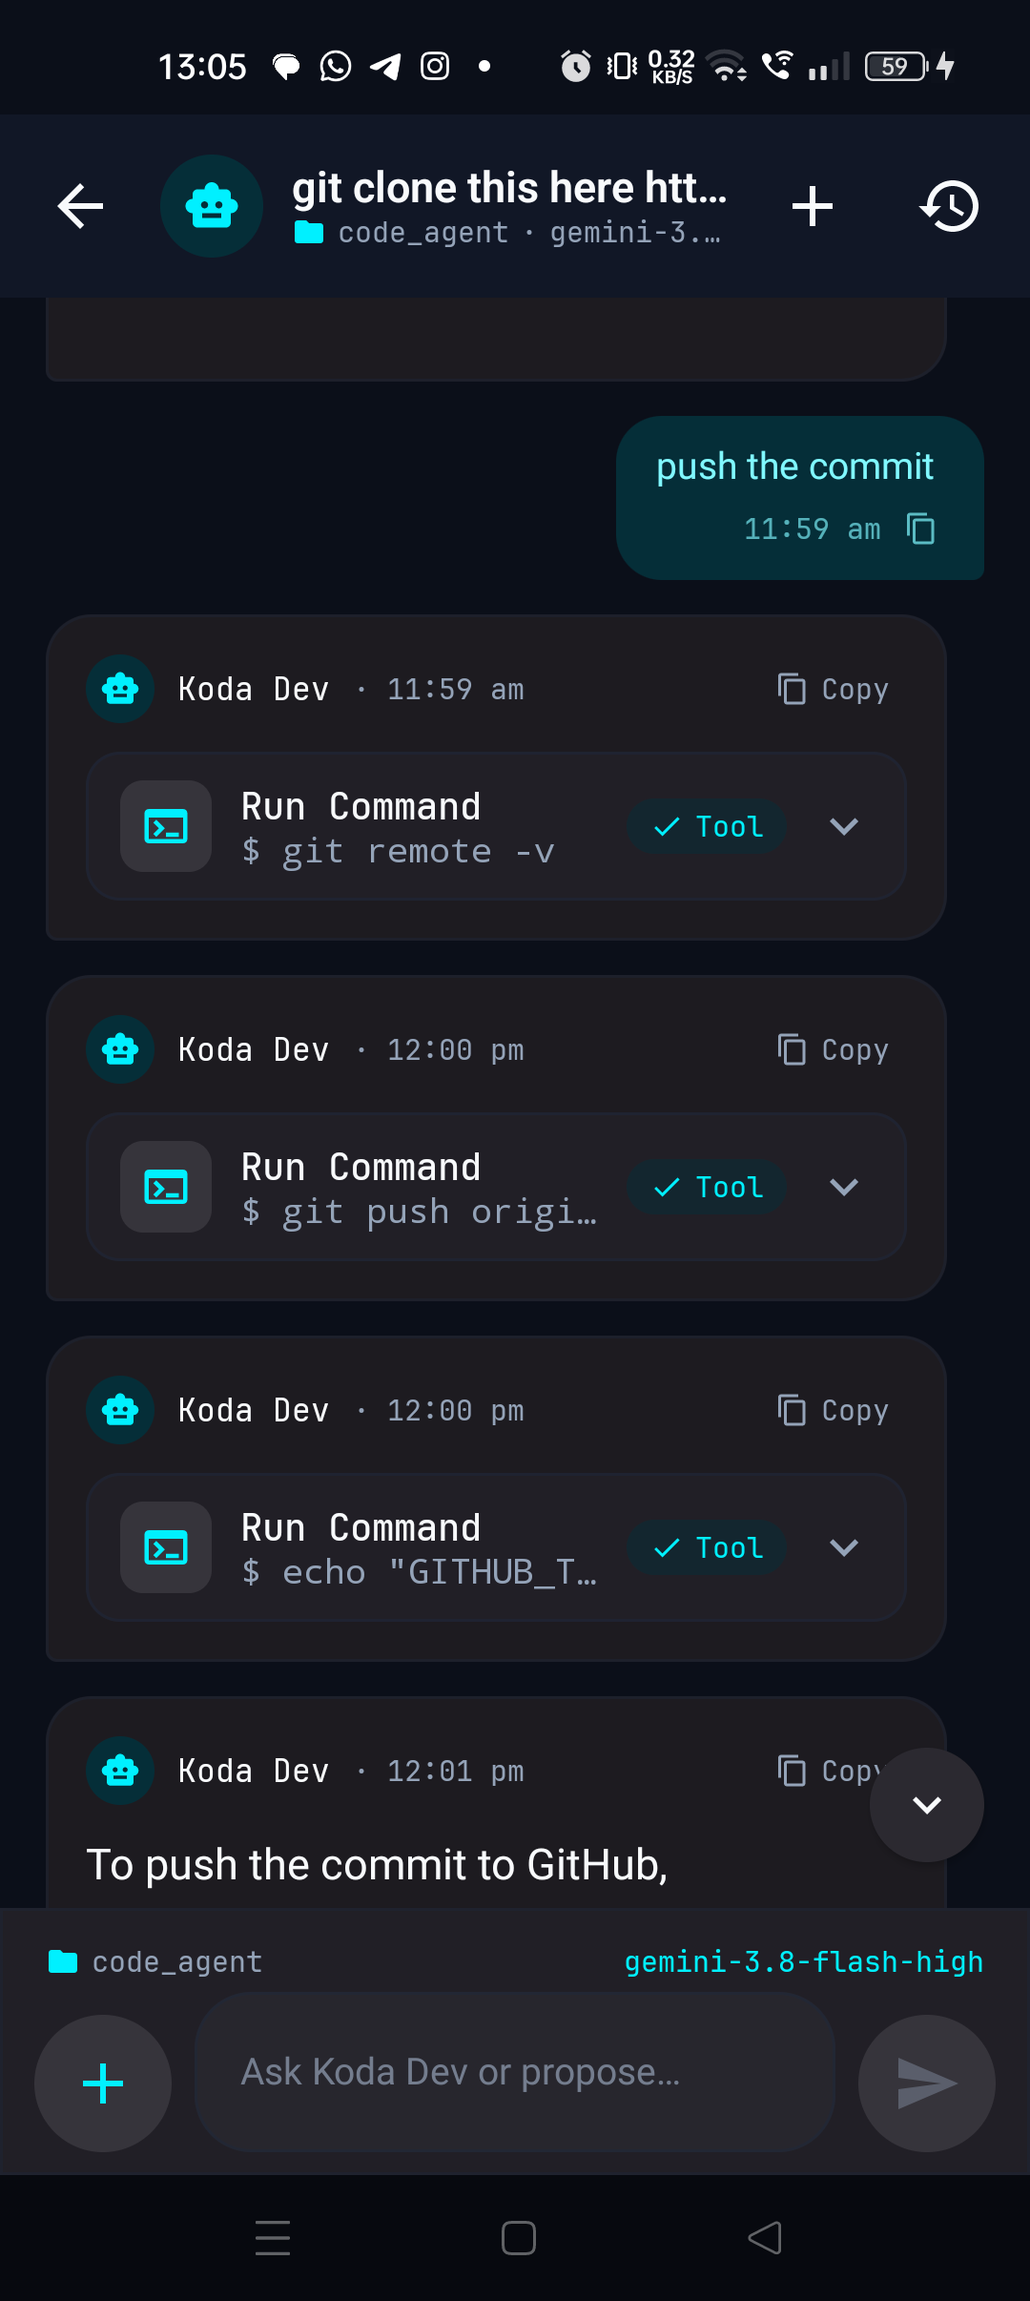
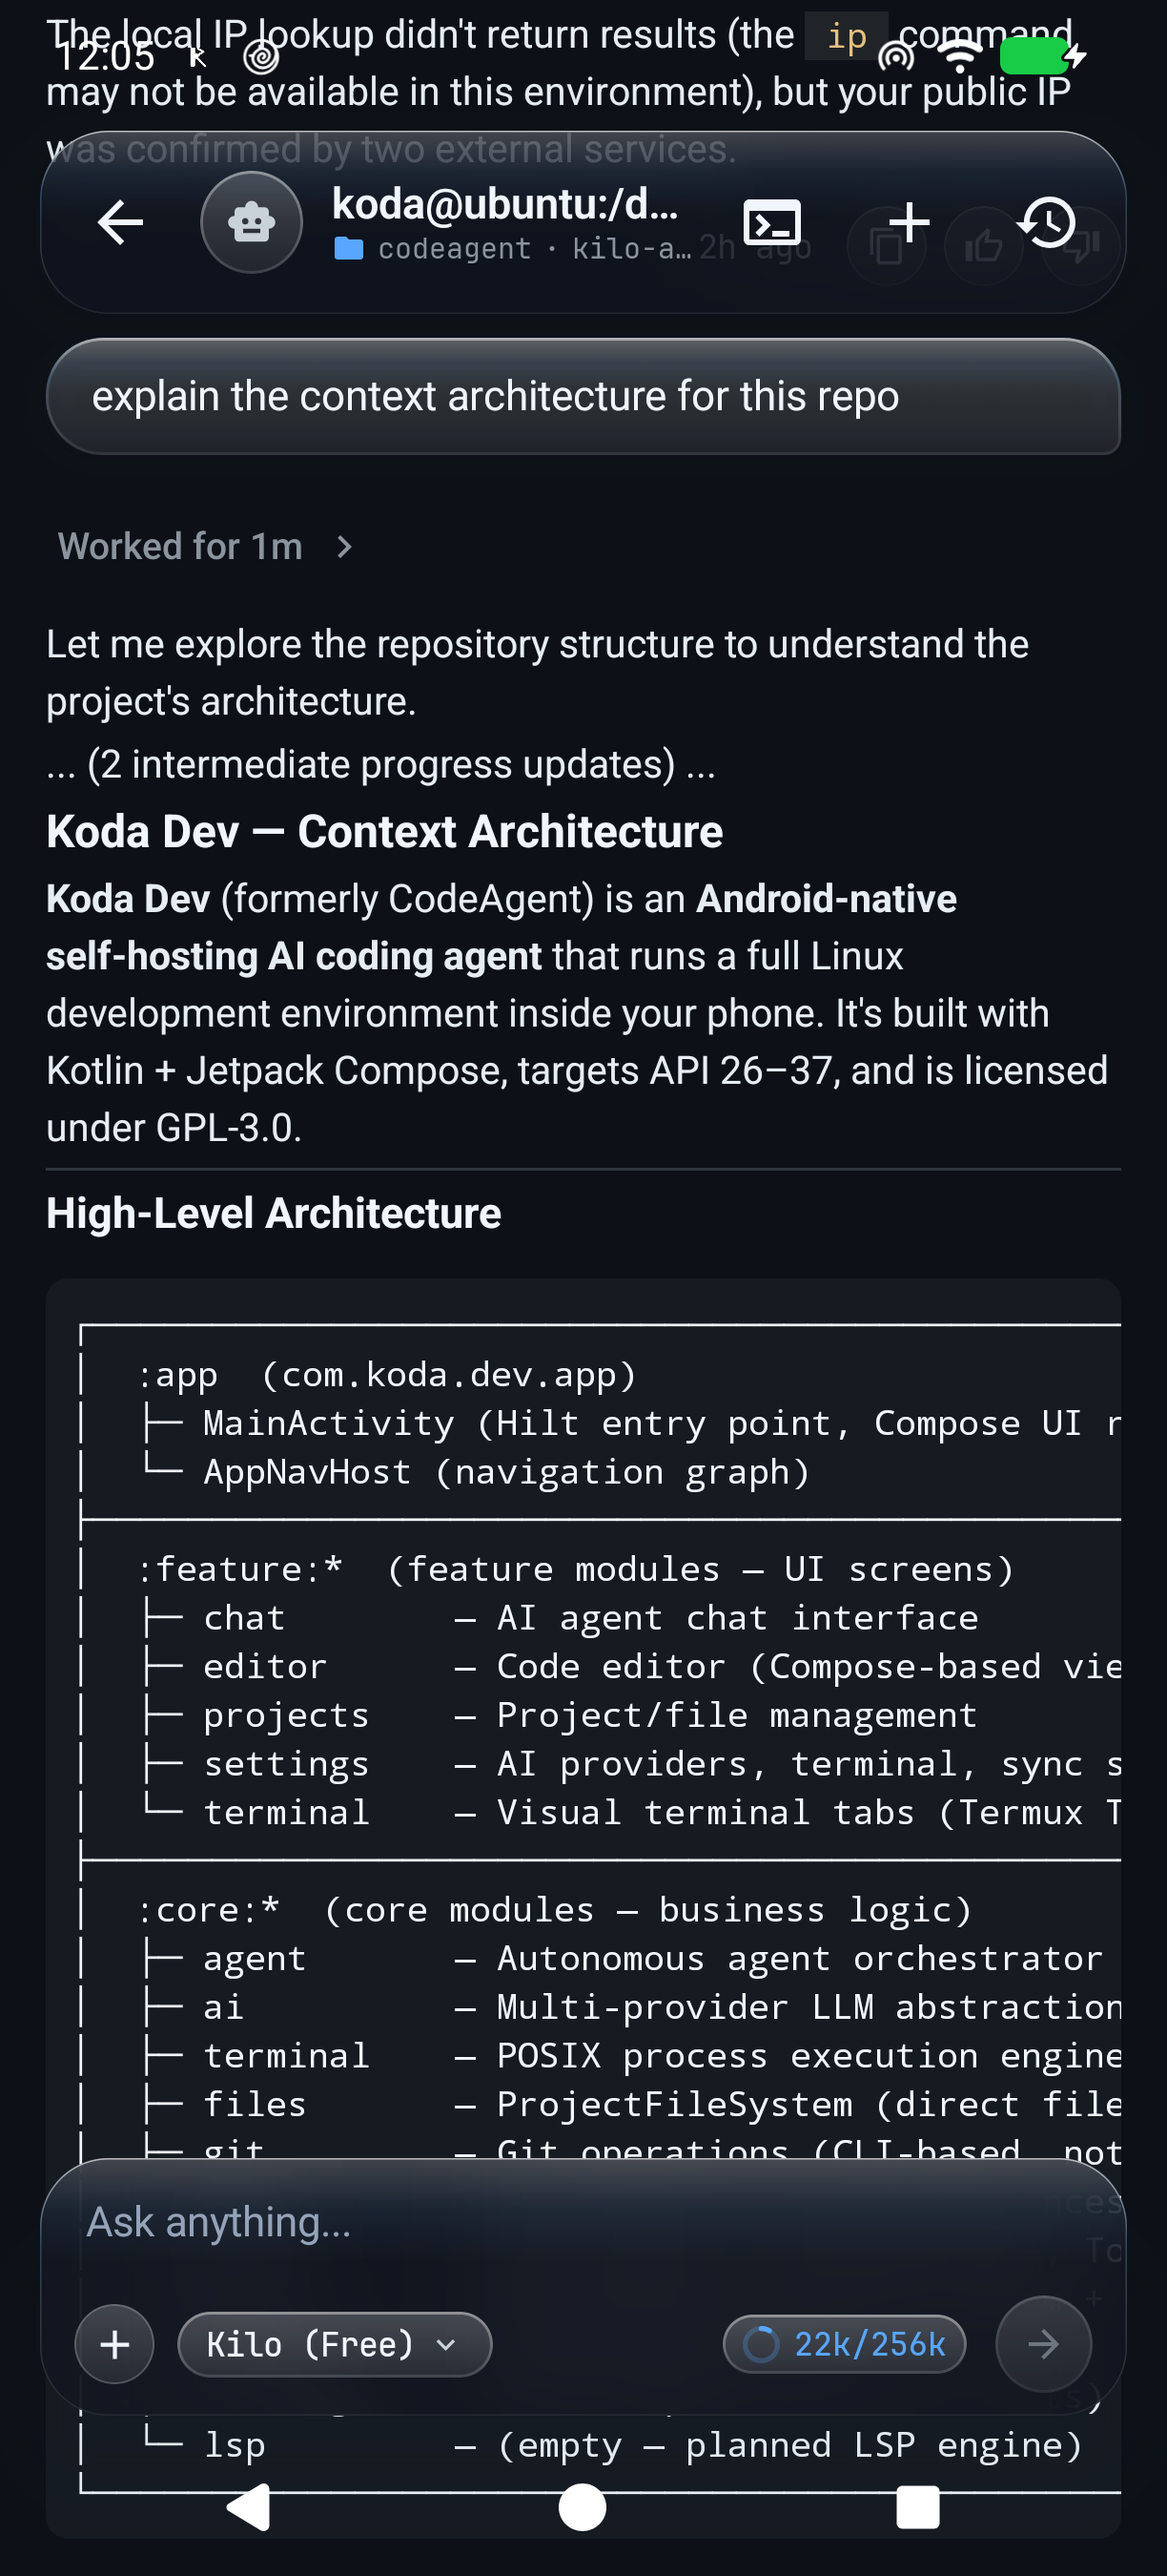
docs(readme): showcase new Liquid Glass UI screenshots across 5 key surfaces

diff --git a/README.md b/README.md
@@ -19,7 +19,7 @@
   <img src="https://img.shields.io/badge/PRoot-Ubuntu%2024.04%20Noble-E95420?logo=ubuntu&logoColor=white&style=flat-square" alt="Ubuntu in PRoot" />
   <img src="https://img.shields.io/badge/Unit%20Tests-176%20Passed-10B981?style=flat-square" alt="Tests Passed" />
   <img src="https://img.shields.io/badge/Kotlin-2.4.20-7F52FF?logo=kotlin&logoColor=white&style=flat-square" alt="Kotlin" />
-  <img src="https://img.shields.io/badge/Theme-Koda%20Obsidian-161B22?style=flat-square" alt="Koda Obsidian" />
+  <img src="https://img.shields.io/badge/Theme-Liquid%20Glass%20%26%20Obsidian-161B22?style=flat-square" alt="Liquid Glass & Obsidian" />
 </p>
 
 <p align="center">
@@ -37,20 +37,30 @@
 
 <table align="center" width="100%">
   <tr>
-    <td width="33%" align="center" valign="top">
-      <b>Autonomous Agent Chat</b><br>
-      <sub>Multi-turn tool calling, git control, and real-time execution cards</sub><br><br>
-      <img src="docs/images/screenshot_chat.png" alt="Autonomous AI Chat" width="100%" />
+    <td width="20%" align="center" valign="top">
+      <b>Agent Chat Ready</b><br>
+      <sub>Liquid Glass floating capsule, model selector, & prompt starters</sub><br><br>
+      <img src="docs/images/screenshot_chat_ready.png" alt="Agent Chat Ready" width="100%" />
     </td>
-    <td width="33%" align="center" valign="top">
-      <b>Native Ubuntu 24.04 Terminal</b><br>
-      <sub>Full glibc Linux in PRoot, 24-bit truecolor, multi-session tabs, and programmer keyboard</sub><br><br>
-      <img src="docs/images/screenshot_terminal.png" alt="Ubuntu Terminal in PRoot" width="100%" />
+    <td width="20%" align="center" valign="top">
+      <b>Autonomous Agent</b><br>
+      <sub>Multi-turn execution, streaming deltas, & context usage gauge</sub><br><br>
+      <img src="docs/images/screenshot_chat_execution.png" alt="Autonomous AI Chat Execution" width="100%" />
     </td>
-    <td width="33%" align="center" valign="top">
-      <b>Antiroute Tunnel & QR Scanner</b><br>
-      <sub>Zero-config local model pairing via camera scanning, and E2EE cloud sync</sub><br><br>
-      <img src="docs/images/screenshot_settings.png" alt="Settings & Antiroute Tunnel" width="100%" />
+    <td width="20%" align="center" valign="top">
+      <b>Workspace Terminal</b><br>
+      <sub>Integrated slide-up Linux terminal sheet over active workspace</sub><br><br>
+      <img src="docs/images/screenshot_terminal_sheet.png" alt="Workspace Terminal Sheet" width="100%" />
+    </td>
+    <td width="20%" align="center" valign="top">
+      <b>On-Device Self-Build</b><br>
+      <sub>Full-screen Ubuntu 24.04 PRoot compiling on ARM64 hardware</sub><br><br>
+      <img src="docs/images/screenshot_terminal_build.png" alt="Ubuntu Terminal On-Device Build" width="100%" />
+    </td>
+    <td width="20%" align="center" valign="top">
+      <b>Settings & Providers</b><br>
+      <sub>Multi-provider routing, CameraX QR scanner, & E2EE cloud sync</sub><br><br>
+      <img src="docs/images/screenshot_settings.png" alt="Settings & AI Providers Hub" width="100%" />
     </td>
   </tr>
 </table>
@@ -95,8 +105,10 @@
 - **Multi-Provider & Live Model Discovery**: Switch between OpenAI, Anthropic, OpenRouter, DeepSeek, Ollama, and custom proxies with dynamic `/models` queries.
 - **Agent Web Intelligence**: Jsoup-powered `web_search` and `fetch_web_page` tools allow the agent to look up real-time documentation and debugging solutions.
 
-### 🎨 Koda Obsidian Theme & Typography
-- **Obsidian Dark Palette**: High-contrast dark IDE interface (`#0B0F19`, `#111726`, `#161E31`, `#238636` accent) engineered for low eye strain.
+### 💎 Liquid Glass Design System & Typography
+- **Liquid Glass Optics**: Hardware-accelerated RenderEffect backdrop blur, AGSL signed distance field (SDF) lens refraction, and internal specular highlight sheens.
+- **Floating Capsule UI**: Floating TopAppBar, unified input capsule with circular context usage gauge, and bottom navigation dock with responsive micro-glass cards.
+- **Obsidian Dark Palette & Physics**: High-contrast dark IDE palette (`#0B0F19`, `#111726`, `#161E31`) with tactile Apple-inspired spring-press animations.
 - **JetBrains Mono Typography**: First-class monospace developer typography across all editor, terminal, chat, and status surfaces.
 
 ### 🔐 Zero-Knowledge Cloud Sync ($0 Infrastructure)
@@ -223,7 +235,7 @@ Koda Dev can build itself inside its own Ubuntu terminal on an ARM64 Android dev
 - [x] **Antiroute Tunnel Provider & CameraX QR Code Scanner**
 - [x] **Agent Web Intelligence (Jsoup Search & Web Scraping)**
 - [x] **Zero-Knowledge E2EE Cloud Sync via Secret GitHub Gists**
-- [x] **Koda Obsidian Design System & JetBrains Mono Typography**
+- [x] **Liquid Glass Design System & JetBrains Mono Typography**
 - [ ] **Integrated Dev Server & In-App Web Preview**
 - [ ] **Visual Git Studio & 3-Way Merge Conflict Resolver**
 - [ ] **Adaptive Multi-Pane IDE for Foldables, Tablets & Samsung DeX**
